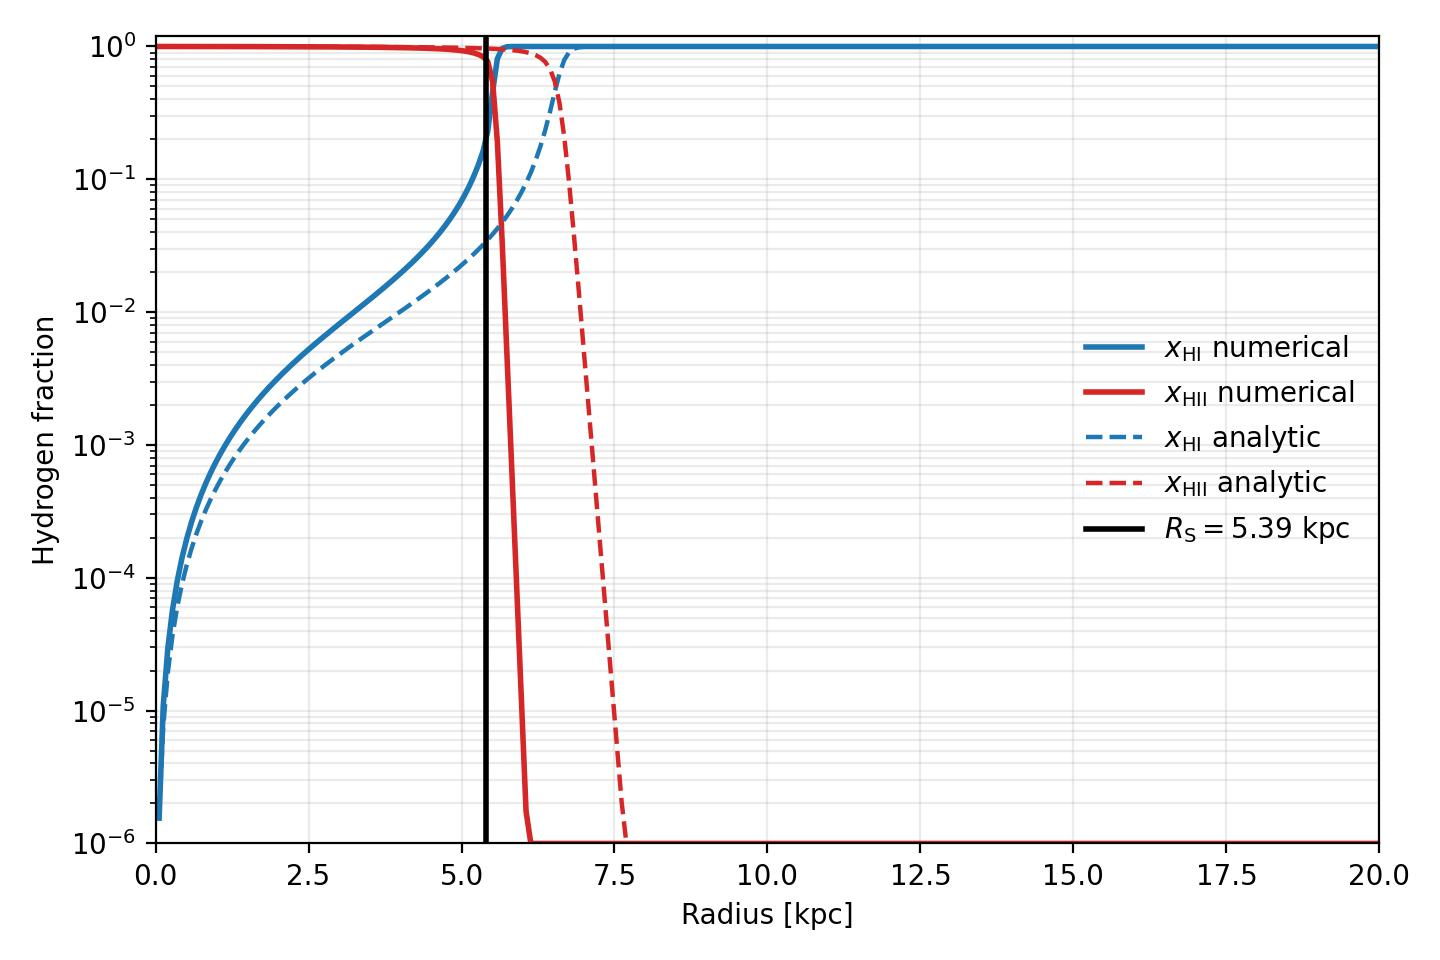
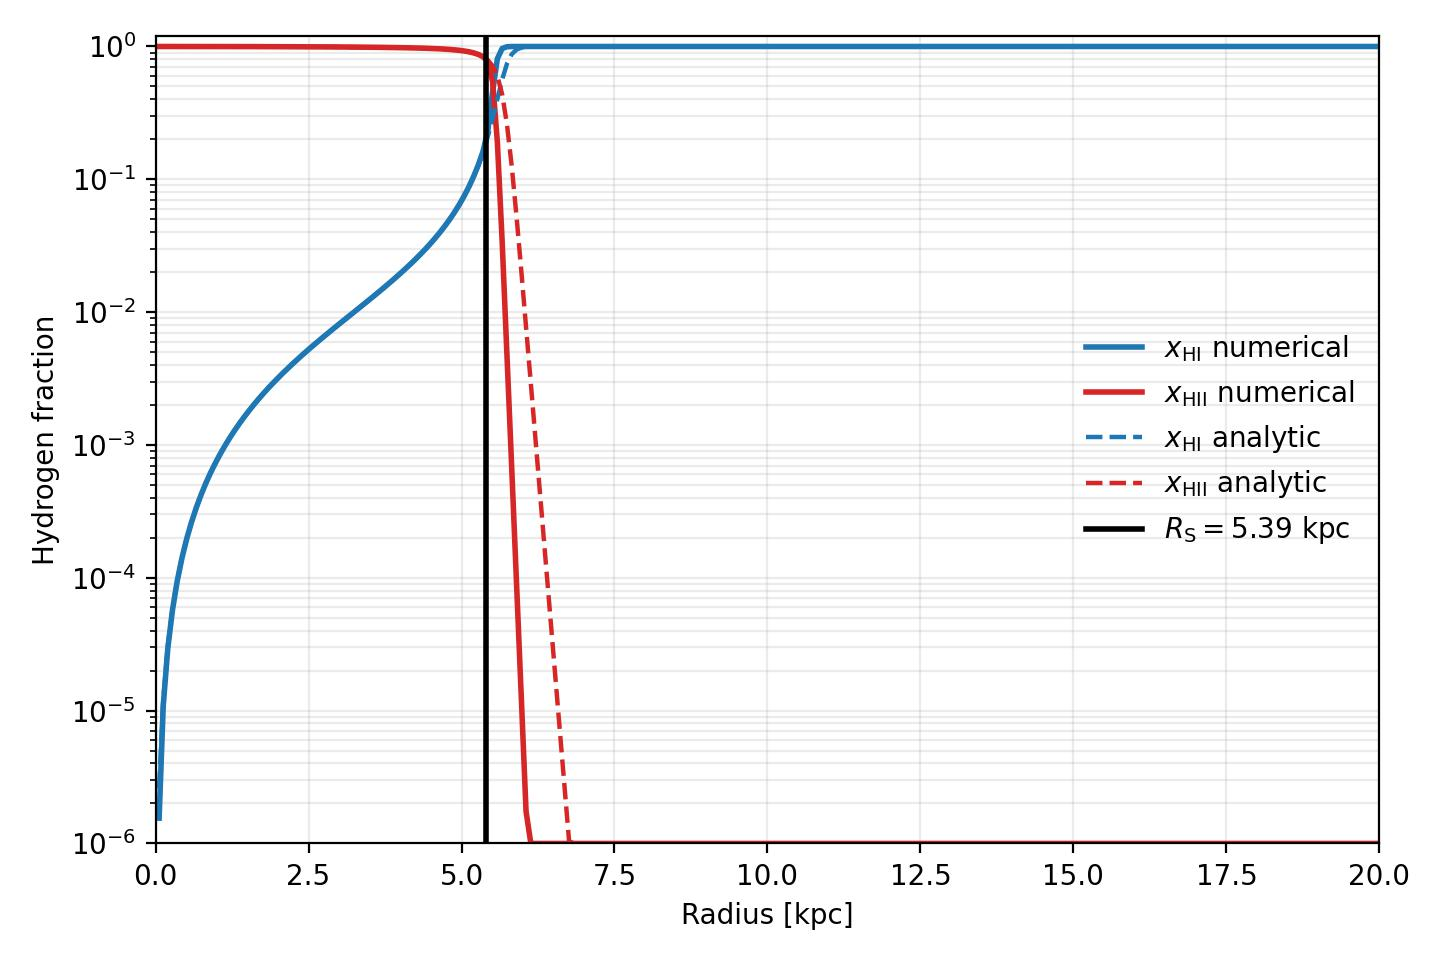
updated analytic solution (no beta now)

diff --git a/example/StaticStromgrenSphere1D/stromgren_analytic.py b/example/StaticStromgrenSphere1D/stromgren_analytic.py
@@ -1,0 +1,133 @@
+"""Analytic static Stromgren sphere helpers."""
+
+import numpy as np
+import unyt
+
+
+def stromgren_radius(source_photon_rate, hydrogen_number_density, alpha_B):
+    """Return the on-the-spot Stromgren radius."""
+
+    radius_cubed = (
+        3.0
+        * source_photon_rate
+        / (4.0 * np.pi * alpha_B * hydrogen_number_density**2)
+    )
+    return radius_cubed**(1.0 / 3.0)
+
+
+def stromgren_optical_depth(
+    source_photon_rate,
+    hydrogen_number_density,
+    sigma_gamma,
+    alpha_B,
+):
+    """Return ``tau_S = nH sigma_gamma R_S``."""
+
+    radius = stromgren_radius(
+        source_photon_rate,
+        hydrogen_number_density,
+        alpha_B,
+    )
+    return (hydrogen_number_density * sigma_gamma * radius).to_value('')
+
+
+def recombination_time(hydrogen_number_density, alpha_B):
+    """Return the case-B recombination time."""
+
+    return (1.0 / (alpha_B * hydrogen_number_density)).to(unyt.Myr)
+
+
+def ionization_front_radius(time, source_photon_rate, hydrogen_number_density, alpha_B):
+    """Return the classic time-dependent Stromgren I-front radius."""
+
+    radius = stromgren_radius(source_photon_rate, hydrogen_number_density, alpha_B)
+    time_rec = recombination_time(hydrogen_number_density, alpha_B)
+    value = 1.0 - np.exp(-(time / time_rec).to_value(''))
+    return radius * value**(1.0 / 3.0)
+
+
+def neutral_fraction_profile(
+    radius,
+    hydrogen_number_density,
+    sigma_gamma,
+    alpha_B,
+    source_photon_rate,
+    inner_radius=0.1 * unyt.kpc,
+    nsteps=60000,
+):
+    """Return the static analytic neutral fraction profile.
+
+    The ODE is integrated in the optical-depth variable
+    ``rn = r nH sigma_gamma``:
+
+    ``dx/drn = x(1-x)/(1+x) * (x + 2/rn)``.
+    """
+
+    radius = radius.to(unyt.cm)
+    inner_radius = inner_radius.to(unyt.cm)
+    x_analytic = (
+        hydrogen_number_density
+        * alpha_B
+        * 4.0
+        * np.pi
+        / sigma_gamma
+        / source_photon_rate
+        * radius**2
+    ).to_value('')
+    x_analytic = np.clip(x_analytic, 1.0e-300, 1.0 - 1.0e-12)
+
+    integrate = radius > inner_radius
+    if not np.any(integrate):
+        return x_analytic
+
+    optical_depth_start = (
+        inner_radius
+        * hydrogen_number_density
+        * sigma_gamma
+    ).to_value('')
+    optical_depth_end = (
+        np.amax(radius[integrate])
+        * hydrogen_number_density
+        * sigma_gamma
+    ).to_value('')
+    optical_depth_grid = np.linspace(optical_depth_start, optical_depth_end, nsteps)
+    x_grid = np.empty_like(optical_depth_grid)
+    x_grid[0] = (
+        hydrogen_number_density
+        * alpha_B
+        * 4.0
+        * np.pi
+        / sigma_gamma
+        / source_photon_rate
+        * inner_radius**2
+    ).to_value('')
+
+    def derivative(optical_depth, x):
+        x = np.clip(x, 1.0e-300, 1.0 - 1.0e-12)
+        return x * (1.0 - x) * (x + 2.0 / optical_depth) / (1.0 + x)
+
+    for i in range(len(optical_depth_grid) - 1):
+        optical_depth = optical_depth_grid[i]
+        h = optical_depth_grid[i + 1] - optical_depth
+        x = x_grid[i]
+        k1 = derivative(optical_depth, x)
+        k2 = derivative(optical_depth + 0.5 * h, x + 0.5 * h * k1)
+        k3 = derivative(optical_depth + 0.5 * h, x + 0.5 * h * k2)
+        k4 = derivative(optical_depth + h, x + h * k3)
+        x_grid[i + 1] = np.clip(
+            x + h * (k1 + 2.0 * k2 + 2.0 * k3 + k4) / 6.0,
+            1.0e-300,
+            1.0 - 1.0e-12,
+        )
+
+    optical_depth_target = (
+        radius[integrate]
+        * hydrogen_number_density
+        * sigma_gamma
+    ).to_value('')
+    x_analytic[integrate] = np.interp(
+        optical_depth_target,
+        optical_depth_grid,
+        x_grid,
+    )
+    return x_analytic

diff --git a/example/StaticStromgrenSphere1D/static_stromgren_sphere1d.py b/example/StaticStromgrenSphere1D/static_stromgren_sphere1d.py
@@ -33,6 +33,7 @@ from radhydropy.fluid import Fluid
 import radhydropy.hydrogen as rh
 from radhydropy.mesh import Mesh
 from radhydropy.solver import Solver
+import stromgren_analytic as sa
 
 
 rundir = os.path.dirname(os.path.abspath(__file__))
@@ -40,70 +41,54 @@ figure_filename = os.path.join(rundir, 'StaticStromgrenSphere1D.jpg')
 
 hydrogen_number_density = 1.0e-3 / unyt.cm**3
 alpha_B_coefficient = 2.59e-13 * unyt.cm**3 / unyt.s
-beta_coefficient = 3.1e-16 * unyt.cm**3 / unyt.s
 sigma_gamma = 8.13e-18 * unyt.cm**2
 source_photon_rate = 5.0e48 / unyt.s
 boxsize = 20.0 * unyt.kpc
 final_time = 500.0 * unyt.Myr
 chemistry_timestep = 1.0 * unyt.Myr
 number_of_cells = 256
+analytic_inner_radius = 0.1 * unyt.kpc
 
 
 def stromgren_radius():
-    radius_cubed = (
-        3.0
-        * source_photon_rate
-        / (
-            4.0
-            * np.pi
-            * alpha_B_coefficient
-            * hydrogen_number_density**2
-        )
+    return sa.stromgren_radius(
+        source_photon_rate,
+        hydrogen_number_density,
+        alpha_B_coefficient,
     )
-    return radius_cubed**(1.0 / 3.0)
 
 
 def stromgren_optical_depth():
-    return (hydrogen_number_density * sigma_gamma * stromgren_radius()).to_value('')
+    return sa.stromgren_optical_depth(
+        source_photon_rate,
+        hydrogen_number_density,
+        sigma_gamma,
+        alpha_B_coefficient,
+    )
 
 
 def recombination_time():
-    return (1.0 / (alpha_B_coefficient * hydrogen_number_density)).to(unyt.Myr)
+    return sa.recombination_time(hydrogen_number_density, alpha_B_coefficient)
 
 
 def analytic_front_radius(time):
-    value = 1.0 - np.exp(-(time / recombination_time()).to_value(''))
-    return stromgren_radius() * value**(1.0 / 3.0)
+    return sa.ionization_front_radius(
+        time,
+        source_photon_rate,
+        hydrogen_number_density,
+        alpha_B_coefficient,
+    )
 
 
 def analytic_stromgren_neutral_fraction(radius):
-    q_target = np.asarray((radius / stromgren_radius()).to_value(''), dtype=float)
-    q_start = min(np.amin(q_target[q_target > 0.0]), 1.0e-5)
-    q_end = np.amax(q_target)
-    tau_s = stromgren_optical_depth()
-    q_grid = np.linspace(q_start, q_end, 60000)
-    x_grid = np.empty_like(q_grid)
-    x_grid[0] = np.clip(3.0 * q_start**2 / tau_s, 1.0e-300, 1.0 - 1.0e-12)
-
-    def derivative(q, x):
-        x = np.clip(x, 1.0e-300, 1.0 - 1.0e-12)
-        return x * (1.0 - x) * (tau_s * x + 2.0 / q) / (1.0 + x)
-
-    for i in range(len(q_grid) - 1):
-        q = q_grid[i]
-        h = q_grid[i + 1] - q
-        x = x_grid[i]
-        k1 = derivative(q, x)
-        k2 = derivative(q + 0.5 * h, x + 0.5 * h * k1)
-        k3 = derivative(q + 0.5 * h, x + 0.5 * h * k2)
-        k4 = derivative(q + h, x + h * k3)
-        x_grid[i + 1] = np.clip(
-            x + h * (k1 + 2.0 * k2 + 2.0 * k3 + k4) / 6.0,
-            1.0e-300,
-            1.0 - 1.0e-12,
-        )
-
-    return np.interp(q_target, q_grid, x_grid)
+    return sa.neutral_fraction_profile(
+        radius,
+        hydrogen_number_density,
+        sigma_gamma,
+        alpha_B_coefficient,
+        source_photon_rate,
+        inner_radius=analytic_inner_radius,
+    )
 
 
 def build_static_problem():
@@ -122,9 +107,9 @@ def build_static_problem():
         hydrogen_update_mu=False,
         hydrogen_thermal_coupling=False,
         hydrogen_recombination=True,
-        hydrogen_collisional_ionization=True,
+        hydrogen_collisional_ionization=False,
         hydrogen_alpha_B=alpha_B_coefficient,
-        hydrogen_beta=beta_coefficient,
+        hydrogen_beta=0.0 * unyt.cm**3 / unyt.s,
         hydrogen_radiation_field=False,
         hydrogen_radiation_evolution=False,
         hydrogen_ngamma_initial=0.0 / unyt.cm**3,
